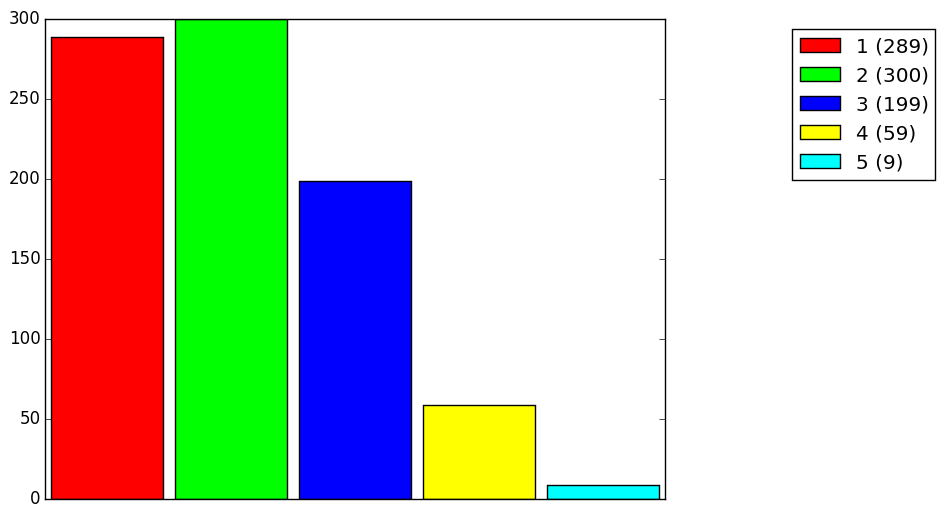
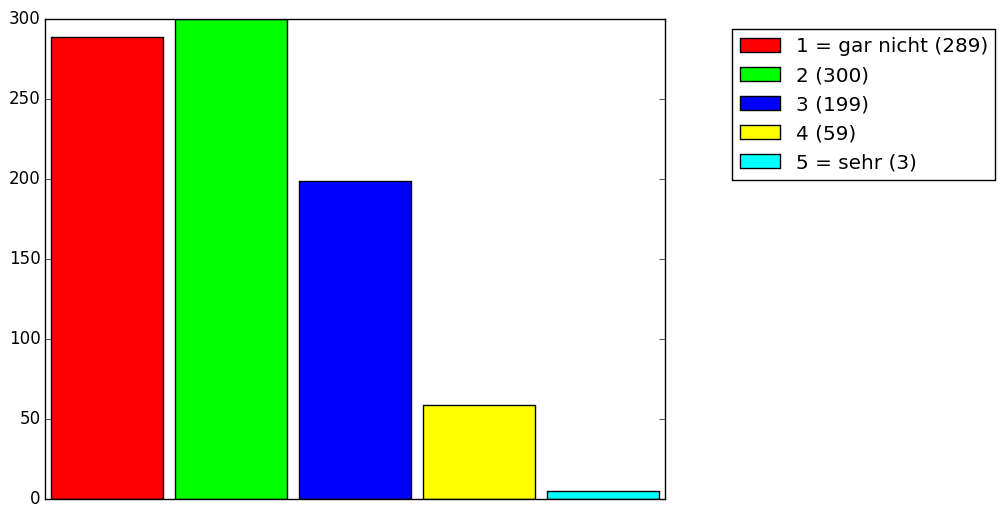
additional final fixes

diff --git a/results.tex b/results.tex
@@ -22,7 +22,7 @@ Von den 856 Teilnehmern waren 204 (23,8\%) weiblich, 613 (71,6\%) männlich und 
 
 Im Mittelwert waren die Teilnehmer 25,0 Jahre alt. Interessant ist, dass trotz des niedrigen Wertes und der geringen Standardabweichung dennoch 47 Teilnehmer im Altersbereich von 45 bis 77 liegen. Die prozentuale Anzahl reicht dennoch nicht, um genaue statistische Aussagen über diese Gruppe im Einzelnen zu treffen, deswegen wird auf eine spezielle Auswertung verzichtet.
 
-Beim Bildungsabschluss zeigt sich, dass ein Großteil der Teilnehmer entweder gerade studiert, oder bereits einen Abschluss im Studium erreicht hat. Teilnehmer die ein Abitur, oder einen Abschluss als Bachelor/Master/Diplom haben, berechnen sich auf über 90\% der Teilnehmer. Nur knapp über 5,7\% der Befragten hatten einen Haupt- oder Realschulabschluss.
+Beim Bildungsabschluss zeigt sich, dass ein Großteil der Teilnehmer entweder gerade studiert, oder bereits einen Abschluss im Studium erreicht hat. Teilnehmer die ein Abitur, oder einen Abschluss als Bachelor/Master/Diplom (oder Entsprechendes) haben, berechnen sich auf über 90\% der Teilnehmer. Nur knapp über 5,7\% der Befragten hatten einen Haupt- oder Realschulabschluss.
 
 Somit spiegelt die demographische Verteilung der Studienteilnehmer nicht die Gesamtzahl der Google-Nutzer in Deutschland wieder, da 2014 60,7\% der Deutschen mit Volks-/Hauptschulabschluss das Internet genutzt haben \cite{statistabildung}. In einer zukünftigen Arbeit zu diesem Thema sollten eventuell speziell die Gruppen \glqq Kein Abschluss\grqq\ , \glqq Hauptschulabschluss\grqq\ und \glqq Realschulabschluss\grqq\ betrachtet werden.
 
@@ -31,9 +31,9 @@ Somit spiegelt die demographische Verteilung der Studienteilnehmer nicht die Ges
 \includegraphics[scale=0.55]{images/schulabschluss}\\
 \caption{Höchster Schulabschluss}\label{schulabschluss}
 \end{figure}
-Auch die Auswertungen zu der derzeitigen Arbeitsbeschäftigung zeigen ein ähnliches Bild - 77,0\% der Teilnehmer (659) waren zum Zeitpunkt der Studiendurchführung Studenten. Dahingegen sind nur 2,0\% in Ausbildung und 15,0\% berufstätig.
+Auch die Auswertungen zu der derzeitigen Arbeitsbeschäftigung zeigen ein ähnliches Bild - 77,0\% der Teilnehmer (659) waren zum Zeitpunkt der Studiendurchführung Studenten. Dagegen sind nur 2,0\% in Ausbildung und 15,0\% berufstätig.
 
-Das arithmetische Mittel der selbst eingeschätzten Informatikkenntnisse liegt auf einer Skala von 1 (keine) bis 5 (sehr hohe) bei 3,3. Hier wurde angenommen, dass im Durchschnitt ein Wert von 3,0 erreicht wird, da dies der Mittelwert der auszuwählenden Optionen war und man bei spezialisiertem Wissen von einer Normalverteilung, die ihr Maximum ungefähr in der Mitte hat, ausgehen kann. Dass dieser Wert sehr nah an dem von mir erwartetem Mittelwert von 3,0 liegt deutet darauf hin, dass die Umfrage trotz der geringen Anzahl an Realschülern und Hauptschülern dennoch Relevanz hat. Als weitere Annahme muss weiterhin hinzugefügt werden, dass der Wissenstand im Bereich Informatik hier der ausschlaggebende Faktor ist und nicht der Bildungsstand.
+Das arithmetische Mittel der selbst eingeschätzten Informatikkenntnisse liegt auf einer Skala von 1 (keine) bis 5 (sehr hohe) bei 3,3. Hier wurde angenommen, dass im Durchschnitt ein Wert von 3,0 erreicht wird, da dies der Mittelwert der auszuwählenden Optionen war und man bei spezialisiertem Wissen von einer Normalverteilung, die ihr Maximum ungefähr in der Mitte hat, ausgehen kann. Dass dieser Wert sehr nah an dem von mir erwartetem Mittelwert von 3,0 liegt deutet darauf hin, dass die Umfrage trotz der geringen Anzahl an Realschülern und Hauptschülern dennoch Relevanz hat. Als zusätzliche Annahme muss weiterhin hinzugefügt werden, dass der Wissenstand im Bereich Informatik hier der ausschlaggebende Faktor ist und nicht der Bildungsstand.
 
 Diese Statistik verschiebt sich stark, wenn man die Frage nach den Kenntnissen in der IT-Sicherheit betrachtet. Hier liegt das arithmetische Mittel bei 2,6, was um 0,7 niedriger ist als das arithmetische Mittel der IT Kenntnisse.
 
@@ -162,10 +162,10 @@ Tabelle \ref{vertrauenothers} zeigt auf, dass Google im Bezug auf Vertrauen von 
 	\caption{Ich vertraue darauf, dass diese Firma meine Privatsphäre schützt}\label{vertrauenothers}
 \end{table}
 
-Zum Wahrgenommenen Risiko für die Privatsphäre \ref{itm:Kat3} gibt es meist sehr eindeutige Antworten. \glqq Sehen Sie das Nutzen von personenbezogenen Daten seitens Google als Vorteil für Sie?\grqq\ beantworteten nur 11,5\% der Teilnehmer mit Ja. Mit 65,8\% sind weit mehr als die Hälfte der Nutzer der Meinung, dass es keine Vorteile bietet.
+Zum wahrgenommenen Risiko für die Privatsphäre (\ref{itm:Kat3}) gibt es meist sehr eindeutige Antworten. \glqq Sehen Sie das Nutzen von personenbezogenen Daten seitens Google als Vorteil für Sie?\grqq\ beantworteten nur 11,5\% der Teilnehmer mit Ja. Mit 65,8\% sind weit mehr als die Hälfte der Nutzer der Meinung, dass es keine Vorteile bietet.
 Diejenigen, die mit Ja geantwortet haben, nennen zum Großteil die angepassten Suchergebnisse als Vorteil. Auch die angepasste Werbung wird häufig genannt.
 
-85,9\% der Teilnehmer ist der Meinung, dass sie sich bei der Nutzung von Google Diensten gegenüber Google nicht anonym fühlen. Nur 6,4\% fühlen sich anonym.
+85,9\% der Teilnehmer sind der Meinung, dass sie sich bei der Nutzung von Google Diensten gegenüber Google nicht anonym fühlen. Nur 6,4\% fühlen sich anonym.
 
 Grafik \ref{possibilities} zeigt auf, ob die Teilnehmer glauben, dass Google ihnen ausreichend Möglichkeiten gibt um ihre Privatsphäre zu schützen. 1 entspricht gar nicht, 5 sehr. Es zeigt, dass sich der Großteil der Teilnehmer auf der unteren Hälfte befindet. Antworten 3,2 und 1 belaufen sich zusammen auf 91,1\%. 
 
@@ -175,11 +175,11 @@ Grafik \ref{possibilities} zeigt auf, ob die Teilnehmer glauben, dass Google ihn
 \caption{Google bietet mir ausreichend Möglichkeiten meine Privatsphäre zu schützen.}\label{possibilities}
 \end{figure}
 
-Die Fragen zu den Schutzmaßnahmen \ref{itm:Kat5} wurden teilweise nur von sehr wenigen Teilnehmern beantwortet, da die Fragen abhängig von den Antworten anderer Fragen waren. Deswegen gibt es bei \glqq Haben Sie diese Einstellung aktiv?\grqq\ im Bezug auf \glqq Gibt es eine Einstellung die es Google verbietet Ihren Google+ Namen zusammen mit Ihrem Foto zu Werbezwecken zu verwenden?\grqq\ insgesamt nur sieben Antworten. Von diesen sieben Antworten sind allerdings fünf \glqq Ja\grqq\ , nur eine \glqq Nein\grqq\ .
+Die Fragen zu den Schutzmaßnahmen (\ref{itm:Kat5}) wurden teilweise nur von sehr wenigen Teilnehmern beantwortet, da die Fragen abhängig von den Antworten anderer Fragen waren. Deswegen gibt es bei \glqq Haben Sie diese Einstellung aktiv?\grqq\ im Bezug auf \glqq Gibt es eine Einstellung die es Google verbietet Ihren Google+ Namen zusammen mit Ihrem Foto zu Werbezwecken zu verwenden?\grqq\ insgesamt nur sieben Antworten. Von diesen sieben Antworten sind allerdings fünf \glqq Ja\grqq\ , nur eine \glqq Nein\grqq\ .
 
 Bei \glqq Haben Sie Maßnahmen unternommen um anonym gegenüber Google zu sein? Wenn ja, welche?\grqq\ gab es insgesamt 55 Antworten, von denen 21 mit Ja und 28 mit Nein geantwortet haben. 
 
-Mehr Antworten gibt es wieder bei \glqq Würden Sie Ihren Google Account löschen um an Privatsphäre zu gewinnen?\grqq\ . Hierbei haben von allen Teilnehmern 52,1\% mit Nein geantwortet. Die restlichen knapp 50\% der Teilnehmer teilen sich mit 27,7\% zu Ja und 20,2\% zu Nein auf.
+Mehr Antworten gibt es wieder bei \glqq Würden Sie Ihren Google Account löschen um an Privatsphäre zu gewinnen?\grqq\ . Hierbei haben von allen Teilnehmern 52,1\% mit Nein geantwortet. Die restlichen knapp 50\% der Teilnehmer teilen sich mit 27,7\% zu Ja und 20,2\% zu Weiß nicht auf.
 
 Tabelle \ref{changedprivacy} zeigt auf, bei welchem Google Dienst die Teilnehmer der Umfrage bereits Einstellungen für die Privatsphäre geändert haben. Die Option \glqq Sonstiges\grqq\ wurde zum Großteil dazu genutzt mit \glqq keinem\grqq\ zu antworten.
 \begin{table}
@@ -202,7 +202,7 @@ Tabelle \ref{changedprivacy} zeigt auf, bei welchem Google Dienst die Teilnehmer
 	\caption{Bei welchem Google Dienst haben Sie bereits Privatsphäre Einstellungen geändert?}\label{changedprivacy}
 \end{table}
 
-Das letzte Konstrukt, \glqq Bewusstsein über das Aufgeben der Privatsphäre\grqq\ \ref{itm:Kat4}, zeigt sehr interessante Ergebnisse. Zum Beispiel wollen 596 der 735 Teilnehmer, denen die Frage gezeigt wurde, gegenüber Google gerne anonym sein.
+Das letzte Konstrukt, \glqq Bewusstsein über das Aufgeben der Privatsphäre\grqq\ (\ref{itm:Kat4}), zeigt sehr interessante Ergebnisse. Zum Beispiel wollen 596 der 735 Teilnehmer, denen die Frage gezeigt wurde, gegenüber Google gerne anonym sein.
 
 Grafik \ref{giveinfo} zeigt auf, dass die Mehrzahl der Teilnehmer glaubt, wenige Daten über das private Leben im Internet herauszugeben. Dies steht im Konflikt mit der Frage nach \glqq Ich denke, Google weiß folgendes über mich:\grqq\ , bei der 89,7\% der Teilnehmer angaben, Google wüsste ihren Namen, 83,6\% sind der Meinung Google wüsste sogar ihren Wohnort. Interessen und derzeitiger Aufenthaltsort sind mit 76,1\% und 65,8\% auch sehr häufig angewählt worden. Im \glqq Sonstiges\grqq\ Bereich wurde oft \glqq IP Adresse\grqq\ und \glqq Sexuelle Interessen\grqq\ genannt.
 
@@ -257,9 +257,9 @@ Sämtliche Korrelationen werden nach \citet{statistikeinfuehrung} anhand Tabelle
 \section{Hypothesen}
 \textit{Je aktiver eine Person Google nutzt, desto mehr Kenntnisse über Googles Datenschutz bekommt sie. (H1, \ref{itm:H0})}
 
-Hier lassen sich einige Korrelationen aufstellen. So zeigt zum Beispiel Tabelle \ref{4ssearchads}, dass 14,1\% derjenigen, die die Google Suche am aktivsten Nutzen, auf die Frage, ob Google zugeschnittene Werbung anbietet, mit \glqq Nein\grqq\ oder \glqq Weiß nicht\grqq\ geantwortet haben. Dieser prozentuale Wert entspricht exakt dem äquivalenten Wert in der Spalte \glqq Gesamt\grqq\ .
+Hier lassen sich einige Korrelationen aufstellen. So zeigt zum Beispiel Tabelle \ref{4ssearchads}, dass 14,1\% derjenigen, die die Google Suche am aktivsten nutzen, auf die Frage, ob Google zugeschnittene Werbung anbietet, mit \glqq Nein\grqq\ oder \glqq Weiß nicht\grqq\ geantwortet haben. Dieser prozentuale Wert entspricht exakt dem äquivalenten Wert in der Spalte \glqq Gesamt\grqq\ .
 
-Tabelle \ref{4ssearchsearch} zeigt ein ähnliches Bild, es ist allerdings eindeutig ersichtlich, dass in der Frage nach den zugeschnittenen Suchergebnissen 40 Teilnehmer weniger mit \grqq Ja\glqq\ geantwortet haben. Diese 40 fehlen offensichtlich im Bereich derjenigen, die die Google Suche sehr aktiv nutzen, was allerdings nur 4\% der Teilnehmer sind und somit die Hypothese nicht widerlegt.
+Tabelle \ref{4ssearchsearch} zeigt ein ähnliches Bild, es ist allerdings eindeutig ersichtlich, dass in der Frage nach den zugeschnittenen Suchergebnissen 40 Teilnehmer weniger mit \glqq Ja\grqq\ geantwortet haben. Diese 40 fehlen offensichtlich im Bereich derjenigen, die die Google Suche sehr aktiv nutzen, was allerdings nur 4\% der Teilnehmer sind und somit die Hypothese nicht widerlegt.
 
 Die prozentualen Anteile von derjenigen, die mit Ja geantwortet haben zur Gesamtzahl jeder Zeile von Tabelle \ref{4ssearchsearch} belaufen sich auf: 1: 82,4\%, 2: 93,8\%, 3: 71,4\%, 4: 80,4\%, 5: 80,7\% und im Gesamten 81,0\%. Hierdurch lässt sich also keine Beziehung zwischen der Nutzung und den Kenntnissen über Google Dienste und Privatsphäre aufzeigen.
 
@@ -293,7 +293,7 @@ Die prozentualen Anteile von derjenigen, die mit Ja geantwortet haben zur Gesamt
 \end{table}
 Tabelle \ref{4samountdelete} zeigt allerdings eine Beziehung auf. Die Teilnehmer, die einen oder gar keinen Google Account haben, sind sich sehr unsicher darüber, ob es die Möglichkeit gibt den Account zu löschen. 85,3\% der Teilnehmer mit keinem Google Account haben hier mit \glqq Weiß nicht\grqq\ geantwortet. Das ist verständlich, wenn man keinen Account hat, ist es auch nicht wichtig zu wissen, ob man ihn wieder entfernen könnte.
 
-Aber vor allem bei den Teilnehmern mit einem Google Account zeigen sich große Defizite auf - 63,5\% von ihnen wissen nicht, ob man den Account löschen kann. Je mehr Accounts ein Teilnehmer besitzt desto sicherer ist er sich, dass er den Account auch wieder löschen kann. Dieser Wert steigt von 31,4\% für Teilnehmer mit einem Account, über 47,7\% bei einem Account auf 56,9\% für Teilnehmer mit mehr als 2 Accounts. Hier ist eine Korrelation zu erkennen welche die Hypothese unterstützt, dass mehr Nutzung mehr Wissen entspricht.
+Aber vor allem bei den Teilnehmern mit einem Google Account zeigen sich große Defizite auf - 63,5\% von ihnen wissen nicht, ob man den Account löschen kann. Je mehr Accounts ein Teilnehmer besitzt desto sicherer ist er sich, dass er den Account auch wieder löschen kann. Dieser Wert steigt von 31,4\% für Teilnehmer mit keinem Account, über 47,7\% bei einem Account auf 56,9\% für Teilnehmer mit mehr als 2 Accounts. Hier ist eine Korrelation zu erkennen welche die Hypothese unterstützt, dass mehr Nutzung mehr Wissen entspricht.
 
 Diese Korrelation wurde mit dem $\chi$-Quadrat-Test (\ref{chisquared}) geprüft. Hierbei ergibt sich, dass nach Tabelle \ref{correlationrelevance} nur ein geringer statistischer Zusammenhang besteht.
 
@@ -323,6 +323,7 @@ Tabelle \ref{4sadsprivacy} zeigt auf, dass \glqq Bietet Google auf Nutzer zugesc
 	\begin{tabular}[]{l c | c | c | c | c | c }
 	& & \multicolumn{5}{c}{Durch die Nutzung von Google Diensten}\\
 	& & \multicolumn{5}{c}{gebe ich zu viel meiner Privatsphäre auf}\\\hline
+	& & \multicolumn{5}{c}{1 = gar nicht, 5 = sehr}\\\hline
 	& & 1 & 2 & 3 & 4 & 5\\\hline
 	Bietet Google auf & Ja & 53 & 157 & 247 & 172 & 104 \\
 	Nutzer zugeschnittene & Nein & 3 & 6 & 11 & 4 & 2 \\

diff --git a/similar.tex b/similar.tex
@@ -12,22 +12,26 @@ Die erste Kategorie ist die Ansammlung der Daten. Das bedeutet, dass gesammelte 
 
 Der zweite Punkt ist die Verzerrung. Das heißt, dass Suchanfragen, wenn sie ohne Kontext gestellt sind, sehr schnell ein falsches Bild liefern können. Als Beispiel wird hier die Suchanfrage \glqq assassinate US president\grqq\ gezeigt - Behörden könnten hierbei schnell aufmerksam auf den Suchenden werden, obwohl sich jemand nur über die Geschichte von früheren Präsidenten informieren wollte.
 
-Seine dritte Kategorie ist der Ausschluss. So dürfen sich Nutzer in Europa zwar ihre bei Google gespeicherten Informationen ausgeben lassen, da darüber aber nur wenige Menschen Bescheid wissen gilt Googles Datenbank letzten Endes als \glqq secret Database\grqq\ . 
+Seine dritte Kategorie ist der Ausschluss. So dürfen sich Nutzer in Europa zwar ihre bei Google gespeicherten Informationen ausgeben lassen, da darüber aber nur wenige Menschen Bescheid wissen gilt Googles Datenbank letzten Endes als \glqq secret database\grqq\ . 
 
 Der vierte Punkt ist die \glqq sekundäre Nutzung\grqq . So wird durch die Verwendung von Google der Datenschutzrichtlinie zugestimmt, die es Google erlaubt, die Daten für weit mehr als der direkten Verwendung zu nutzen. Als Beispiel für eine sekundäre Nutzung kann die Werbung gesehen werden. 
 
-Die letzten 2 Kategorien sind der Vertrauensbruch und die restlichen Probleme. In der Arbeit wird William Prosser zitiert, welcher sagt, dass der Nutzer in dem Veröffentlichen seiner privaten Daten eine Verletzung seines Vertrauens sieht. Unter den restlichen Problemen wird unter anderem die Überwachung genannt.
+Die letzten 2 Kategorien sind der Vertrauensbruch und die \glqq restlichen Probleme\grqq\ . In der Arbeit wird William Prosser zitiert, welcher sagt, dass der Nutzer in dem Veröffentlichen seiner privaten Daten eine Verletzung seines Vertrauens sieht. Unter den restlichen Problemen wird unter anderem die Überwachung genannt.
 
 Als Analogie zu einer ähnlich tiefen Verbindung werden in \citet{debatin2009facebook} die Problematiken der Privatsphäre bei der Benutzung von Facebook untersucht. Genau wie Google ist Facebook ein Tool geworden, das alltäglich von vielen Nutzern verwendet wird und dabei sehr tief in die Privatsphäre eingreifen kann. Wie auch in dieser Arbeit geht es bei der Untersuchung zu einem großen Teil um die Verhaltensweisen der Nutzer und darum wie viel sie über die Konsequenzen ihres Verhaltensmusters wissen. So wird zum Beispiel gefragt, wie viele Nutzer der Meinung sind, sich mit den Einstellungen zur Privatsphäre in Facebook auszukennen. Außerdem werden sie gefragt, ob sie sich in der Lage fühlen, ihr Profil zumindest vor dem Zugriff Dritter zu schützen. Ähnliche Fragen werden auch in dieser Arbeit behandelt.
+
 
 Eine weitere verwandte Arbeit ist \glqq Media coverage of online social network privacy issues in Germany: A thematic analysis\grqq\ von \citet{rizk2009media}. In diesem Paper wurde ein Teil der deutschen Medien auf das Thema \glqq Privatsphäre in sozialen Netzwerken\grqq\ durchsucht und die gesammelten Artikel wurden ausgewertet. Eines der Ergebnisse dieser Arbeit ist, dass es eine Beziehung zwischen Artikeln in den Medien und Änderungen in den Nutzungsbedingungen im Bereich Privatsphäre gibt. Das Paper kommt zu dem Schluss, dass diese Änderungen immer gleichzeitig mit, oder kurz nach großen Mengen an Artikeln zu dem Thema kommen.
 
 Ein Begriff, der in den Ergebnissen dieser Arbeit immer wieder aufgetaucht ist, ist \glqq Personalisierte Werbung\grqq . Dieser Begriff wird auch in dieser Arbeit behandelt.
 
-Auch \citet{Preibusch2007Ubiquitous} behandelt das Problem Privatsphäre in Sozialen Netzwerken. Der Artikel behandelt das Thema nicht nur im Bezug auf einzelne Personen, sondern auch im Bezug auf Privatsphäre im Netzwerk. Insbesondere geht es hier darum, dass Person A die persönlichen Daten von Person B missbrauchen kann, solange sie diese Person im Sozialen Netzwerk kennt. Diese Arbeit unterteilt dazu Vertraulichkeit in 4 Teile, Private Daten, Gruppen-Daten, Daten für das Netzwerk und öffentliche Daten. Sämtliche Daten ab \glqq Gruppendaten \grqq\ sind für Person A ersichtlich. Wenn diese Person nun bösartig ist, gibt es einen Konflikt mit der Privatsphäre. 
+
+Auch \citet{Preibusch2007Ubiquitous} behandelt das Problem Privatsphäre in sozialen Netzwerken. Der Artikel behandelt das Thema nicht nur im Bezug auf einzelne Personen, sondern auch im Bezug auf Privatsphäre im Netzwerk. Insbesondere geht es hier darum, dass Person A die persönlichen Daten von Person B missbrauchen kann, solange sie diese Person im Sozialen Netzwerk kennt. Diese Arbeit unterteilt dazu Vertraulichkeit in 4 Teile, Private Daten, Gruppen-Daten, Daten für das Netzwerk und öffentliche Daten. Sämtliche Daten ab \glqq Gruppendaten \grqq\ sind für Person A ersichtlich. Wenn diese Person nun bösartig ist, gibt es einen Konflikt mit der Privatsphäre. 
 
 Um dieses Problem zu lösen, schlagen die Autoren eine Erweiterung des P3P (Platform for Privacy Preferences) vor. Mit dieser Erweiterung soll jeder Nutzer selbst festlegen können, auf welche Art sich Freundschaften zu anderen Nutzern auswirken. Zum Beispiel kann ein Nutzer private und öffentliche Freundschaften anlegen.
 
+
 Eine weitere Arbeit mit ähnlichem Inhalt ist \citet{gross2005information}. Diese Arbeit listet einige Datenschutzauswirkungen auf, unter anderem werden \glqq Stalking\grqq , \glqq Re-Identifikation\grqq\ und der \glqq Fragile Datenschutz\grqq\ genannt.
+
 
 Es existieren weitere Arbeiten mit ähnlichem Inhalt, wie zum Beispiel \citet{hintz2014AGB}, \citet{mahmood2011privacy} und \citet{hintzPhishing}, diese tangieren das Thema allerdings nur und werden hier deswegen nicht weiter ausgeführt.

diff --git a/abstract.tex b/abstract.tex
@@ -20,7 +20,7 @@ Mit den in letzter Zeit häufiger vorkommenden Datenschutzbedenken und dem von S
 
 Auf der anderen Seite kann der Nutzer auch eingeschränkt werden, wenn er seine Daten nicht an Google weitergibt. So funktionieren zum Beispiel personalisierte Suchergebnisse nur, wenn die Suchmaschine auch tatsächlich Informationen über den Nutzer hat.
 
-Diese Arbeit soll untersuchen, ob es auf Seiten der Nutzer einen Konflikt zwischen dem Angebot an Diensten durch Google und der Privatsphäre gibt. Dazu wurden im Verlauf der Arbeit zwei Forschungsfragen beantwortet: \glqq Wie viel wissen Nutzer von der Datensammlung durch Google?\grqq\ und \glqq Treffen die Nutzer Maßnahmen um gegen dieses Sammeln von Daten vorzugehen?\grqq .
+Diese Arbeit soll untersuchen, ob es auf Seiten der Nutzer einen Konflikt zwischen dem Angebot an Diensten durch Google und der Privatsphäre gibt. Dazu wurden im Verlauf der Arbeit zwei Forschungsfragen beantwortet: \glqq Wie viel wissen Nutzer von der Datensammlung durch Google?\grqq\ und \glqq Treffen die Nutzer Maßnahmen, um gegen dieses Sammeln von Daten vorzugehen?\grqq .
 
 Um diese Fragen zu beantworten, wurde ein Fragebogen entworfen und über verschiedene Kanäle verteilt. Nachdem über 800 vollständig ausgefüllte Fragebögen abgegeben wurden, wurde die Umfrage beendet und mit der Auswertung begonnen. 
 
@@ -38,10 +38,10 @@ Maßgebliches Ergebnis dieser Arbeit war, dass das typische Paradoxon der Privat
 \vspace{0.75em}
 Google services nowadays get used by a lot of people, to some extend they even integrate it into their daily life.  Since lately a lot of concerns about privacy have come up and Snowden has leaked information, more detailed thoughts about privacy have become a relevant topic.
 
-On the other hand, if a user does not give Google their data, it may also limit them. Features like personalised search results will only work, if the search engine actually has information about the user.
+On the other hand, if a user does not provide Google their data, it may also restrict them. Features like personalised search results will only work, if the search engine actually has information about the user.
 
 This thesis will examine, if there is a conflict between the offer of features from Google and the privacy when looking at the users. To do that, two research questions were answered in the course of the thesis: \glqq How much do users know of Google collecting their data?\grqq\ and \glqq Do the users take any actions against Google collecting their data?\grqq .
 
-To answer these questions, a survey was created and distributed over multiple channels. After over 800 completely filled in results have come in, the survey was stopped and evaluation and analysis started.
+To answer these questions, a survey was created and distributed over multiple channels. After over 800 completely filled in results have come in, the survey was closed and evaluation and analysis started.
 
-The relevant result of this thesis is, that the typical privacy paradox can be seen in this case aswell - the users wish to have better privacy, but thes rarely take action to protect it.
+The relevant result of this thesis is, that the typical privacy paradox can be seen in this case aswell - the users wish to have better privacy, but they rarely take action to protect it.

diff --git a/conclusion.tex b/conclusion.tex
@@ -21,13 +21,13 @@ Aus den 856 ausgewerteten Fragebögen ergaben sich einige interessante Ergebniss
 
 Es lässt sich sagen, dass Google von den Nutzern sehr aktiv genutzt wird. Fast 90\% der Teilnehmer haben angegeben dass sie Google oft bzw. sehr oft nutzen.
 
-Des weiteren kann man sagen, dass das Wissen der Nutzer über Google im Großteil gut ist. Ein Großteil der Nutzer weiß zum Beispiel, dass Google personalisierte Suchergebnisse anbietet. Es gibt aber Lücken im Wissen, nur ein knappes Drittel der Teilnehmer weiß, dass man seinen Google Account löschen kann.
+Des weiteren kann man sagen, dass das Wissen der Nutzer über Google im in großen Teilen gut ist. Ein Großteil der Nutzer weiß zum Beispiel, dass Google personalisierte Suchergebnisse anbietet. Es gibt aber Lücken im Wissen, nur ein knappes Drittel der Teilnehmer weiß, dass man seinen Google Account löschen kann.
 
 Das Vertrauen in Google ist eher gering - ein Drittel der Umfrageteilnehmer meint, dass ihre Daten bei Google nicht sicher sind.
 
 Die Nutzer nehmen ein Risiko für ihre Privatsphäre wahr, so fühlen sich 85,9\% der Teilnehmer gegenüber Google nicht anonym.
 
-In großen Teilen sind sich Nutzer über das Aufgeben ihrer Privatsphäre bewusst - viele Teilnehmer glauben zu wissen, dass Google viele ihrer privaten Daten, wie zum Beispiel Telefonnummer der Wohnort kennt.
+In großen Teilen sind sich Nutzer über das Aufgeben ihrer Privatsphäre bewusst - viele Teilnehmer glauben zu wissen, dass Google viele ihrer privaten Daten, wie zum Beispiel Telefonnummer oder Wohnort kennt.
 
 Tabelle \ref{hypothesenangenommen} zeigt, welche Hypothesen mit statistischer Signifikanz angenommen werden konnten und welche nicht belegt werden konnten.
 
@@ -60,4 +60,6 @@ Weiterhin wäre es interessant zu erfahren, wie man das in Sektion \ref{sec:fors
 \chapter{Danksagung}
 Mein Dank gilt Nadina Hintz und Zinaida Benenson, welche mich durch die Bachelorarbeit hindurch mit hilfreichen Vorschlägen begleitet haben.
 
-Des weiteren danke ich natürlich meiner Familie, die mir während der Bachelorarbeit immer mit gutem Rat beiseite gestanden ist und mir durch die stressige Zeit hindurch geholfen hat.
+Des weiteren danke ich natürlich meiner Familie, die mir während der Bachelorarbeit immer mit psychologischem Beistand beiseite gestanden sind und mir durch die stressige Zeit hindurch geholfen hat.
+
+Zu guter Letzt danke ich den vielen Teilnehmern an der Umfrage dafür, dass sie Zeit aufgewandt haben um mir bei der Ausarbeitung dieser Arbeit zu helfen.

diff --git a/introduction.tex b/introduction.tex
@@ -23,9 +23,9 @@ Durch diese Debatten geraten auch große Unternehmen im Internet wieder in den F
 
 In seinem Buch über Google und Wikileaks schrieb Julian Assange, dass Google um die 2 Millionen US-Dollar von der NSA angenommen hat. Dieses Geld sollte dazu verwendet werden, die NSA mit Suchprogrammen auszurüsten \cite{assangebook}. Spätestens nachdem Wahrheiten wie diese an die Öffentlichkeit geraten, sollte man sich im Bezug auf persönliche Daten besonders überlegen, ob man diese Google überlassen will.
 
-Im selben Buch wird beschrieben, dass Google im Jahre 2010 einen Vertrag mit der NSA eingegangen ist. In diesem Vertrag ging es offiziell darum, dass die NSA Sicherheitslücken in Google Diensten aufspüren soll. In den wenigen Informationen, die man über diesen Vertrag kennt, ist enthalten, dass es sich um einen Vertrag zum \glqq Austausch von Informationen\grqq\ handelt. Welcher Art diese Daten letzten Endes waren ist unbekannt. Dadurch ist es nicht auszuschließen, dass die Informationen, die ausgetauscht werden, nicht nur technischer Art sind. Es könnte möglich sein, dass es sich nur um Informationen über Sicherheitslücken handelt, es ist aber ebenfalls möglich, dass es sich auch um persönliche Daten von Nutzern handelt.
+Im selben Buch wird beschrieben, dass Google im Jahre 2010 einen Vertrag mit der NSA eingegangen ist. In diesem Vertrag ging es offiziell darum, dass die NSA Sicherheitslücken in Google Diensten aufspüren soll. In den wenigen Informationen, die man über diesen Vertrag kennt, ist enthalten, dass es sich um einen Vertrag zum \glqq Austausch von Informationen\grqq\ handelt. Es ist letzten Endes unbekannt, welcher Art diese Daten waren. Dadurch ist es nicht auszuschließen, dass die Informationen, die ausgetauscht werden, nicht nur technischer Art sind. Es könnte möglich sein, dass es sich nur um Informationen über Sicherheitslücken handelt, es ist aber ebenfalls möglich, dass es sich auch um persönliche Daten von Nutzern handelt.
 
-Auf der anderen Seite zeigen die hohen Nutzerzahlen, dass Google kaum vermieden wird.
+Auf der anderen Seite zeigen die hohen Nutzerzahlen, dass Google kaum gemieden wird.
 
 Es gibt also einen potentiellen Konflikt zwischen der Nutzung von Google Diensten (und den Vorteilen die dadurch entstehen) und dem Datenschutz. Dieser soll im Rahmen dieser Arbeit untersucht werden.
 

diff --git a/methodology.tex b/methodology.tex
@@ -19,7 +19,7 @@ Um die Forschungsfragen sinnvoll zu beantworten, wurden Konstrukte definiert, di
 \begin{enumerate}
 \item \label{itm:Kat0}\textbf{Nutzung von Google Diensten}: Das Nutzungsverhalten der Google Dienste von Seiten der Nutzer. Dieser Teil fragt vor allem allgemeine Daten zum Nutzungsverhalten ab. Darunter fallen unter anderem die Information, welche Dienste genutzt werden und wie viele Accounts die Nutzer haben.
 \item \label{itm:Kat1}\textbf{Kenntnisse über Googles Datenschutz}: Angeeignetes Wissen über den Umgang mit personenbezogenen Daten bei Google, vor allem im Bezug auf die genutzten Dienste.
-\item \label{itm:Kat2}\textbf{Vertrauen in Google}: Der Glauben an auftretende negative Konsequenzen im Zusammenhang mit dem Preisgeben der Daten (vgl. \citet{kim2008trust}).
+\item \label{itm:Kat2}\textbf{Vertrauen in Google}: Der Glauben, dass Google Charakteristiken zeigt, die Google davon abhalten, Verhalten zu zeigen, das dem Nutzer schadet.(vgl. \citet{mcknight2002impact}).
 \item \label{itm:Kat3}\textbf{Wahrgenommenes Risiko für die Privatsphäre}: Der Glauben an auftretende negative Konsequenzen im Zusammenhang mit dem Preisgeben der Daten (vgl. \citet{kim2008trust}).
 \item \label{itm:Kat4}\textbf{Bewusstsein über das Aufgeben der Privatsphäre}: Das Bewusstsein über den Verlust der Privatsphäre bei der Verwendung von Google Diensten.
 \item \label{itm:Kat5}\textbf{Schutzmaßnahmen}: Verhalten des Nutzers zum Schutze der eigenen Privatsphäre.

diff --git a/script/plot.py b/script/plot.py
@@ -9,11 +9,11 @@ if len(sys.argv) > 1:
 
 fig = plt.figure(1)
 ax = fig.add_subplot(111)
-ax.bar([0.5], [311], width=0.9, facecolor='#ff0000', label=u"1 (311)", align="center")
-ax.bar([1.5], [323], width=0.9, facecolor='#00ff00', label=u"2 (323)", align="center")
-ax.bar([2.5], [185], width=0.9, facecolor='#0000ff', label=u"3 (185)", align="center")
-ax.bar([3.5], [34], width=0.9, facecolor='#ffff00', label=u"4 (34)", align="center")
-ax.bar([4.5], [3], width=0.9, facecolor='#00ffff', label=u"5 (3)", align="center")
+ax.bar([0.5], [209], width=0.9, facecolor='#ff0000', label=u"1 = gar nicht (209)", align="center")
+ax.bar([1.5], [242], width=0.9, facecolor='#00ff00', label=u"2 (242)", align="center")
+ax.bar([2.5], [276], width=0.9, facecolor='#0000ff', label=u"3 (276)", align="center")
+ax.bar([3.5], [113], width=0.9, facecolor='#ffff00', label=u"4 (113)", align="center")
+ax.bar([4.5], [16], width=0.9, facecolor='#00ffff', label=u"5 = sehr (16)", align="center")
 #ax.bar([5.5], [3], width=0.9, facecolor='#ff00ff', label=u"Schutzmaßnahmen", align="center")
 #ax.bar([6.5], [7], width=0.9, facecolor='#000000', label="Demographische Fragen", align="center")
 #ax.bar([7.5], [8], width=0.9, facecolor='#9999ff', label="keine Antwort (8)", align="center")

diff --git a/declaration.tex b/declaration.tex
@@ -24,7 +24,7 @@
 
 
 % German
-Hiermit versichere ich eidesstattlich, dass die vorliegende Arbeit von mir selbsttändig, ohne Hilfe Dritter und ausschließlich unter Verwendung der angegebenen Quellen angefertigt wurde. Alle Stellen, die wörtlich oder sinngemäß aus den Quellen entnommen sind, habe ich als solche kenntlich gemacht. Die Arbeit wurde bisher in gleicher oder ähnlicher Form keiner anderen Prüfungsbehörde vorgelegt. 
+Hiermit versichere ich eidesstattlich, dass die vorliegende Arbeit von mir selbstständig, ohne Hilfe Dritter und ausschließlich unter Verwendung der angegebenen Quellen angefertigt wurde. Alle Stellen, die wörtlich oder sinngemäß aus den Quellen entnommen sind, habe ich als solche kenntlich gemacht. Die Arbeit wurde bisher in gleicher oder ähnlicher Form keiner anderen Prüfungsbehörde vorgelegt. 
 \vspace{1.5em}
 
 
